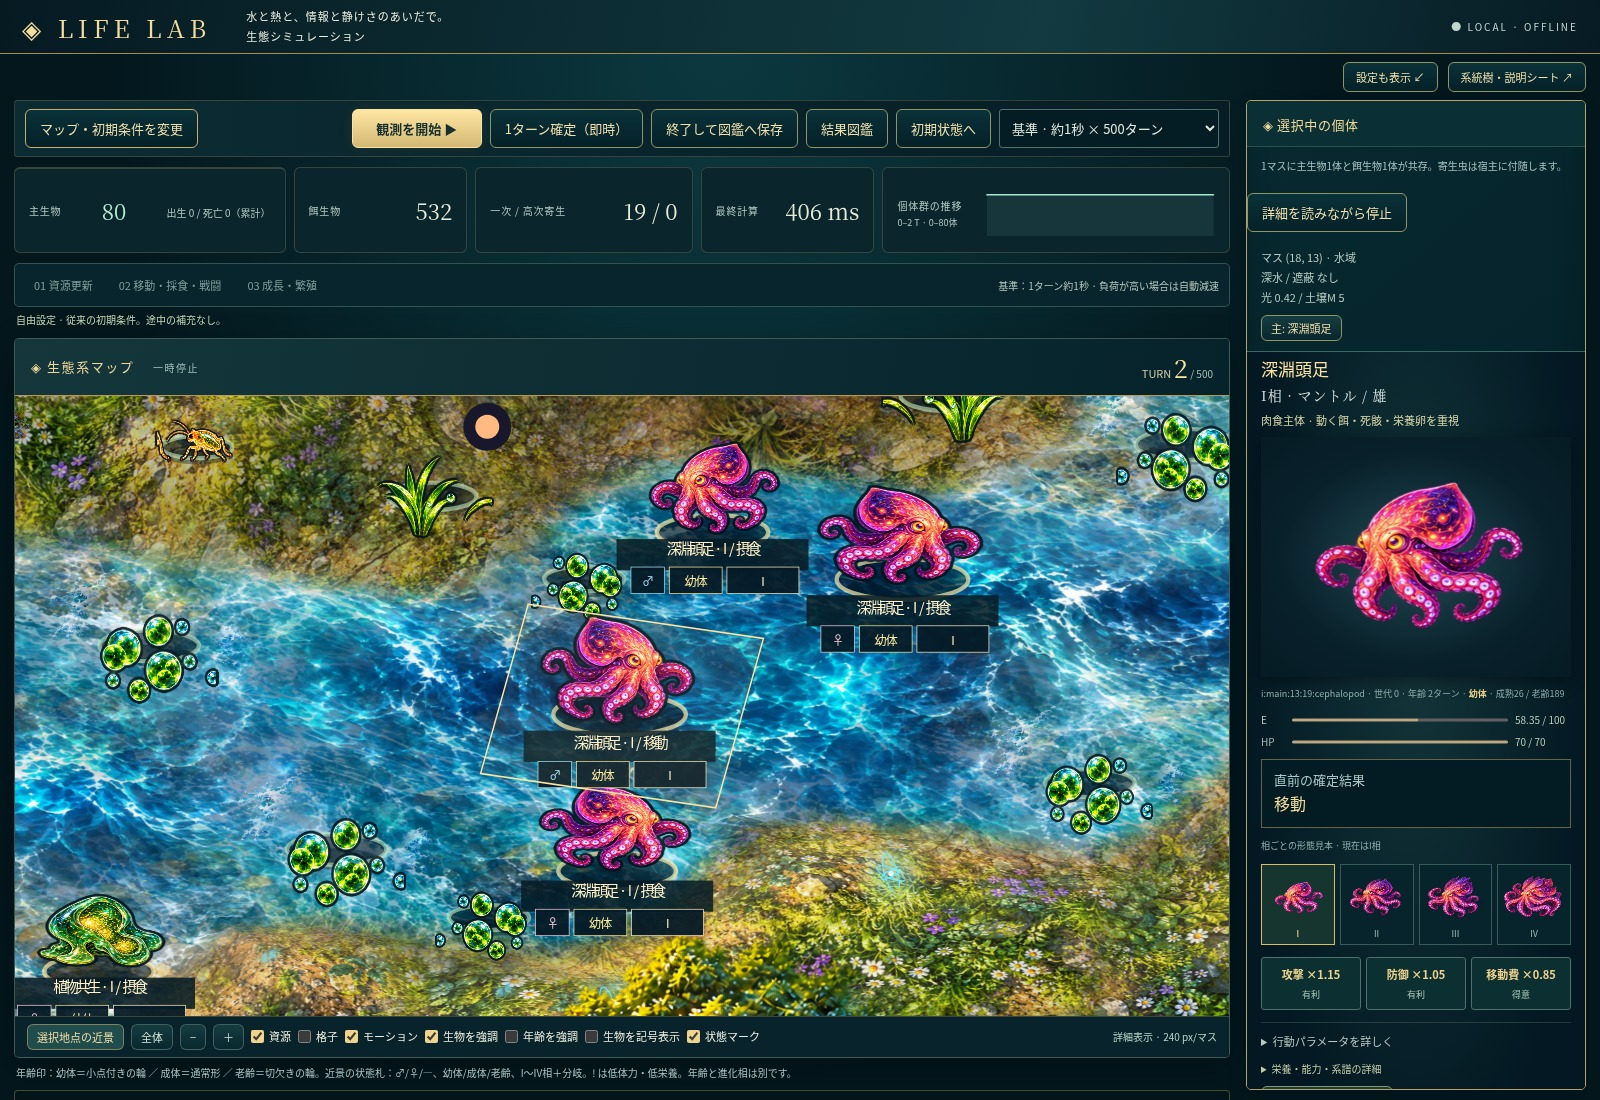
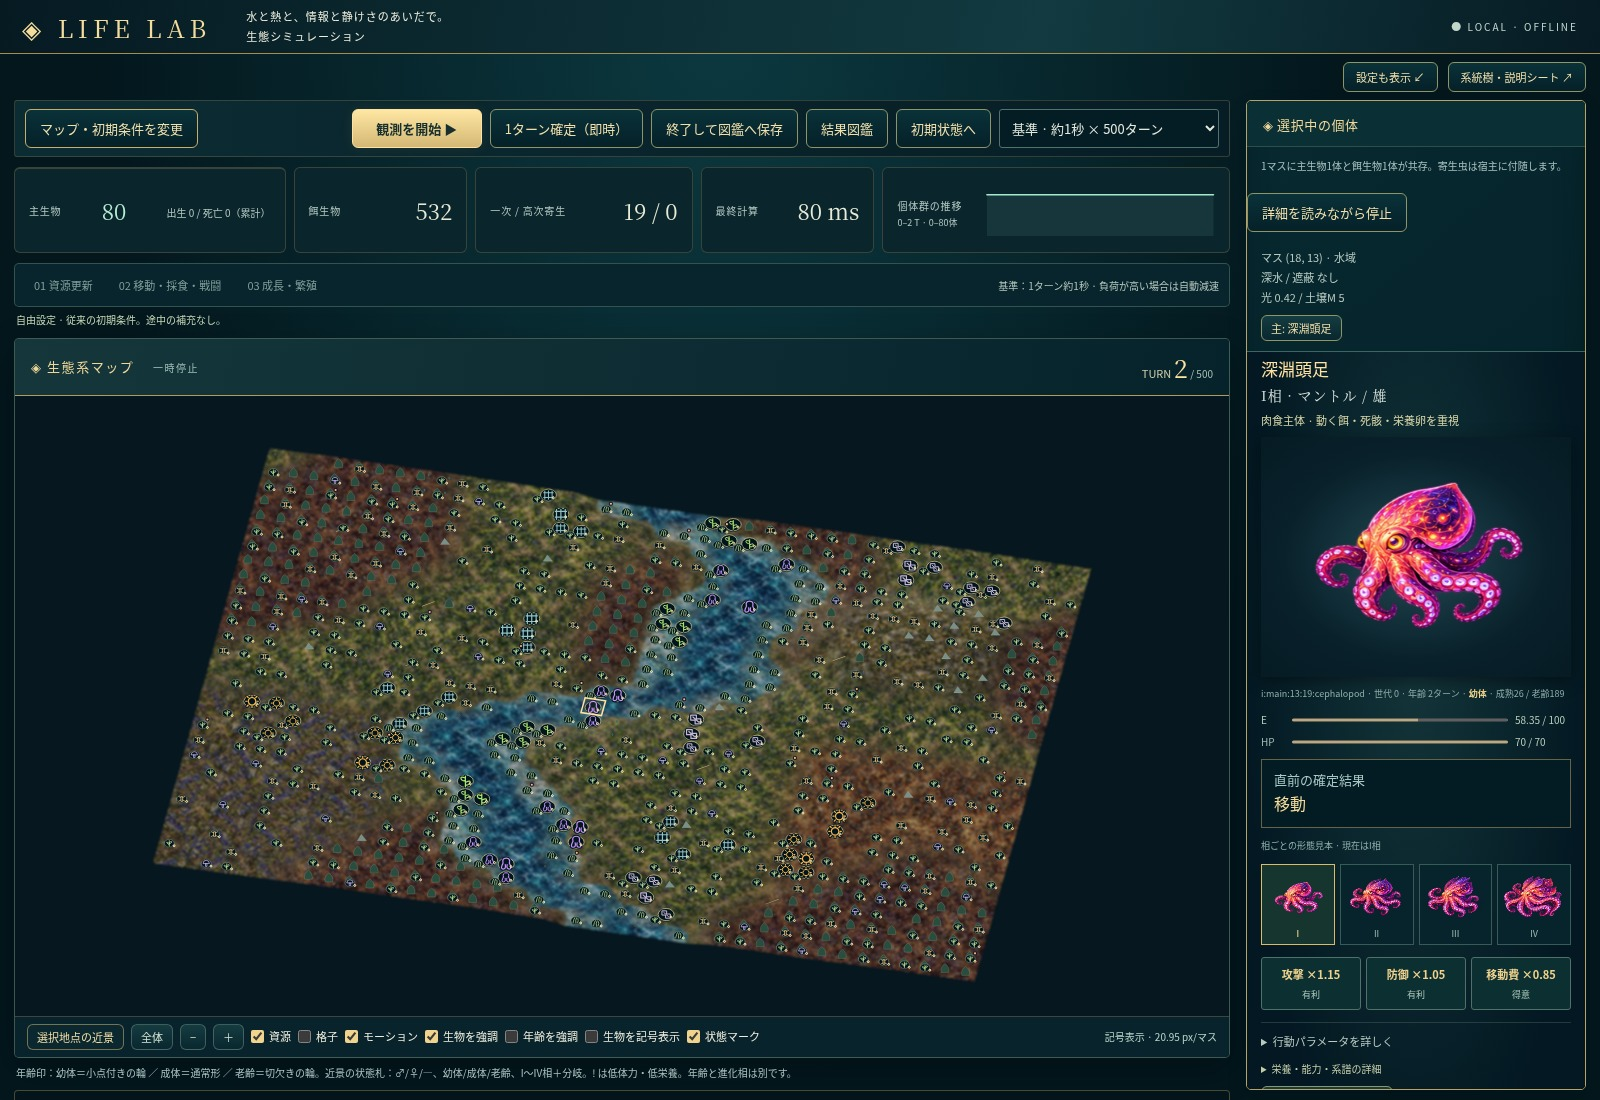
Reuse reserved turns after map interaction and align editor pause checks

diff --git a/lifegame-desktop/src/ecology/compute-client.js b/lifegame-desktop/src/ecology/compute-client.js
@@ -1,8 +1,8 @@
 /* One Worker, at most six private future turns. No future state reaches counters. */
 (function(root){'use strict';
   function create({onChange=()=>{},onError=()=>{},workerFactory=()=>new Worker('ecology/compute-worker.js')}={}){
-    let worker=null,epoch=0,queue=[],busy=false,ready=false,limit=Infinity,preparedAt=0,watchdog=null,metadata=null, warming=true,active=false;
-    function close(dispose=false){epoch++;active=false;if(dispose){worker?.terminate();worker=null;}queue=[];busy=false;ready=false;clearTimeout(watchdog);watchdog=null;}
+    let worker=null,epoch=0,queue=[],busy=false,ready=false,limit=Infinity,preparedAt=0,watchdog=null,metadata=null, warming=true,active=false,reserved=null;
+    function close(dispose=false){epoch++;active=false;if(dispose){worker?.terminate();worker=null;}queue=[];reserved=null;busy=false;ready=false;clearTimeout(watchdog);watchdog=null;}
     function fail(message){close(true);onError(message);}
     function arm(){clearTimeout(watchdog);watchdog=setTimeout(()=>fail('事前計算が60秒以内に応答しませんでした。確定状態から再試行してください。'),warming?Math.max(1,60000-(performance.now()-preparedAt)):60000);}
     function init(world,observeId,end){
@@ -23,11 +23,13 @@
     }
     function fill(count=2){
       if(!ready||busy||!worker||queue.at(-1)?.turn>=limit)return;
-      const amount=Math.min(count,6-queue.length);if(amount<=0)return;
+      const amount=Math.min(count,6-queue.length-(reserved?1:0));if(amount<=0)return;
       busy=true;arm();worker.postMessage({type:'compute',epoch,count:amount,limit});
     }
-    function take(){return queue.shift()||null;}
-    return {init,close,fill,take,get initialized(){return active;},get length(){return queue.length;},get ready(){return ready;},get busy(){return busy;},get elapsed(){return performance.now()-preparedAt;},get metadata(){return metadata;}};
+    function take(){if(reserved)throw Error('TURN_ALREADY_RESERVED');reserved=queue.shift()||null;return reserved;}
+    function restore(packet){if(packet!==reserved)throw Error('TURN_RESERVATION_MISMATCH');queue.unshift(reserved);reserved=null;}
+    function acknowledge(){reserved=null;}
+    return {init,close,fill,take,restore,acknowledge,get initialized(){return active;},get length(){return queue.length;},get ready(){return ready;},get busy(){return busy;},get elapsed(){return performance.now()-preparedAt;},get metadata(){return metadata;}};
   }
   root.EcoCompute={create};
 })(globalThis);

diff --git a/lifegame-desktop/src/app.js b/lifegame-desktop/src/app.js
@@ -85,8 +85,9 @@
   });
   function restoreCommitted() {
     runGeneration++;clearTimeout(timer);timer=null;
-    const had=!!pendingTurn;pendingTurn=null;
-    if(had){compute.close();prewarming=true;}
+    const had=!!pendingTurn;
+    if(pendingTurn?.packet)compute.restore(pendingTurn.packet);
+    pendingTurn=null;
     renderer.view.animate=false;showTurnStage();
     if(world){renderer.setWorld(world);renderSelection();}
   }
@@ -387,7 +388,7 @@
     const packet=compute.take();
     if(!packet){compute.fill(2);$("status").textContent="計算待ち";message("次のターンを計算しています。個体やターンを省略せず待機します。");timer=setTimeout(runLoop,100);return;}
     const token=runGeneration,start=performance.now();
-    const state=pendingTurn={phase:0,computeMs:packet.computeMs,preview:world};
+    const state=pendingTurn={phase:0,computeMs:packet.computeMs,preview:world,packet};
     compute.fill(2);
     function valid(){return running&&!holds.size&&token===runGeneration&&pendingTurn===state;}
     function advance(){
@@ -404,7 +405,7 @@
         $("status").textContent="観測中";
         if(state.phase===3)timer=setTimeout(()=>{
           if(!valid())return;
-          pendingTurn=null;showTurnStage();renderer.view.animate=false;
+          compute.acknowledge();pendingTurn=null;showTurnStage();renderer.view.animate=false;
           commitTurn(preview,packet.computeMs);
           if(running&&!holds.size)timer=setTimeout(runLoop,0);
         },Math.max(100,TURN_MS-(performance.now()-start)));

diff --git a/lifegame-desktop/operations/evidence/fast-observation-v4/README.md b/lifegame-desktop/operations/evidence/fast-observation-v4/README.md
@@ -1,10 +1,10 @@
 # app4.0.0 500ターン・先行計算・操作停止
 
-契約: operations/plans/fast-observation-v4.md。仕様差分: design/specification/observation-session-v2.3.md。A1/A2、B4/B5、C7/C7.1/C8/C8.1/C8.2、D7/D8/D9、E5/E6。配布はC4/D4/E7。実行主体Codex、Linux共有クラウドCPU・Node24・Chromium154/HTTP loopback。UTC 2026-10-18T03:14:25.571430+00:00。正式59ノードのID/親子/草案状態を維持。新規Node/Manifest初期登録なし、既存Manifest反映。中核3定義は変更していない。
+契約: operations/plans/fast-observation-v4.md。仕様差分: design/specification/observation-session-v2.3.md。A1/A2、B4/B5、C7/C7.1/C8/C8.1/C8.2、D7/D8/D9、E5/E6。配布はC4/D4/E7。実行主体Codex、Linux共有クラウドCPU・Node24・Chromium154/HTTP loopback。UTC 2026-10-18T03:21:51.633072+00:00。正式59ノードのID/親子/草案状態を維持。新規Node/Manifest初期登録なし、既存Manifest反映。中核3定義は変更していない。
 
 ## 現行動作
 
-新UI世界は500ターンを一区切り、基準1000ms/ターン、三段階を約333msずつ表示する。先行する3ターンを準備し、以後は最大6ターンの待機バッファ。ローカルWorkerが生態計算を行う。準備は開始から合計60秒で中止・再試行、途中で応答が止まっても60秒で中止する。計算が追いつかなければ待機を明示し減速する。ターン/個体/造形を間引かない。手動送りは同じ同期計算を即時確定する。旧比較用の無指定エンジンは1000区間を保持し、新UIの500はconfig.blockTurnsに保存する。
+新UI世界は500ターンを一区切り、基準1000ms/ターン、三段階を約333msずつ表示する。先行する3ターンを準備し、以後は表示中の予約を含む最大6ターンの先行バッファ。ローカルWorkerが生態計算を行う。準備は開始から合計60秒で中止・再試行、途中で応答が止まっても60秒で中止する。計算が追いつかなければ待機を明示し減速する。ターン/個体/造形を間引かない。手動送りは同じ同期計算を即時確定する。旧比較用の無指定エンジンは1000区間を保持し、新UIの500はconfig.blockTurnsに保存する。
 
 マップ操作は最後から1秒後に再開し、pointer保持中は再開しない。個体選択/詳細ロック、説明、図鑑、設定はそれぞれ閲覧終了/閉じる/適用または取消まで保持。複数理由があればすべて解除するまで停止。手動停止では自動再開を取り消し、ホバーだけでは停止しない。タブ非表示でも停止。途中操作は最後の確定世界へ戻し、再開時の追いつき早送りは行わない。未表示の未来をカウンター・履歴・図鑑へ混ぜない。旧世代メッセージを拒否し、終了/リセット/設定/手動送りで先行結果を無効化する。変更した観測対象の診断は再計算する。
 
@@ -19,13 +19,13 @@
 
 performance.jsonは各500ターン、observe39/0・life/1・既存の固定観察モード、実ブラウザWorkerと差分の復元を通した計測。壁時計には描画・再生の待ちを入れていない。1/50/100/150/200/250/300/400/500時点で占有・収支の不変条件を検査し異常なし。計算コストに最低1秒の再生間隔を加えた概算は河畔約515秒、湖沼500秒。描画や転送/画面操作の負荷を全て含む実ゲーム完走時間ではない。共有CPUでの単発2条件、全端末や大160×112の保証にはしない。
 
-screen-performance.jsonは同じ標準河畔の実画面。遠景/近景を各15確定ターン計測。近景も既存の詳細造形を使う。平均は遠景 1489ms、近景 1488ms、Worker稼働中のホイール操作応答は 51ms。これは短期表示の実測であり、500ターン全画面を実時間再生した検査ではない。
+screen-performance.jsonは同じ標準河畔の実画面。遠景/近景を各15確定ターン計測。近景も既存の詳細造形を使う。平均は遠景 1848ms、近景 1223ms、Worker稼働中のホイール操作応答は 50ms。これは短期表示の実測であり、500ターン全画面を実時間再生した検査ではない。
 
-interaction-ui-report.jsonの小マップは5ターン 5923ms、準備 1249ms。別の段階検査では準備を含む最初の確定まで約2481ms。これらを500倍して全端末の性能保証としない。乱数計算だけの比較はhash-benchmark.json、20,000回で279→124ms。同じ乱数合計とUnicode/大きな入力のSHA一致を確認したがゲーム全体の倍率ではない。
+interaction-ui-report.jsonの小マップは5ターン 5277ms、準備 322ms。別の段階検査では準備を含む最初の確定まで約2304ms。これらを500倍して全端末の性能保証としない。乱数計算だけの比較はhash-benchmark.json、20,000回で279→124ms。同じ乱数合計とUnicode/大きな入力のSHA一致を確認したがゲーム全体の倍率ではない。
 
 ## 検証と限界
 
-unit.logは131項目成功。compute.logはそのうちWorker4の最終再確認と追加client2、合計6項目成功。固有の検査は133項目。同期/実Workerの完全一致、キャッシュ有無、固定された前版指紋、差分復元、500境界と続行、60秒の合計期限、6バッファ上限、古いメッセージ拒否を確認。既存46画面、段階26、操作23が成功。ドラッグ保持、ホイール停止/再開、複数閲覧理由、設定取消、手動停止優先、再設定時の破棄、保存・再生の最終指紋一致、追加記録拒否、狭幅、外部通信/JS例外なしを確認した。
+unit.logは131項目成功。compute.logはそのうちWorker4の最終再確認と追加client2、合計6項目成功。固有の検査は133項目。同期/実Workerの完全一致、キャッシュ有無、固定された前版指紋、差分復元、500境界と続行、60秒の合計期限、6バッファ上限、古いメッセージ拒否を確認。既存46画面、段階26、操作25が成功。ドラッグ保持、ホイール停止/再開、複数閲覧理由、設定取消、手動停止優先、再設定時の破棄、保存・再生の最終指紋一致、追加記録拒否、狭幅、外部通信/JS例外なしを確認した。
 
 [遠景](overview.jpg) / [近景](detail.jpg) は実際の確定2ターン後の画面。既存の原画/背景/rendererを維持。外観の新しい利用者承認を検査成功から推定しない。
 
@@ -34,3 +34,11 @@ unit.logは131項目成功。compute.logはそのうちWorker4の最終再確認
 Windows3.9のafacce577、run39077978463・job117528983509はZIP/実exe10ターン/画像読込/Node非公開の成功を受領（windows3.9.json）。4.0のWindows実exeはCI待ち。今版は実exeのfile起動でWorker再生が1ターン以上進むことも必須にした。Linux環境にはElectron実体とXvfbがなく、ネイティブ起動は未実施。HTTPブラウザの成功をfile起動の証拠へ代用しない。
 
 source-hashes.jsonが対象の実装・検査・依存・仕様・契約・CIを特定する。実装/入力/依存/期待値/環境が変わった場合、該当証跡を再検証する。過去の長期目標やWindows成功を4.0へ一括流用しない。
+
+## 操作再開とCI互換検査の修正
+
+表示中の準備済みターンを予約し、操作停止では先頭へ戻して再利用する。予約を含め上限6。設定/観測対象変更と手動停止は無効化する。これにより単なるズーム/ドラッグのたびに初回準備を繰り返さない。compute.logで上限と再利用、interaction-ui-report.jsonの25項目で再開・結果一致を確認。
+
+Windowsの最初のCI（e501fb5、run39092996636）は、旧usability検査が設定編集中のrunning=falseを期待して失敗した。新仕様は再開意図を保持して停止するため、実際の停止理由と1ターン以上の生態指紋不変を確認する検査へ更新した。usability-report.jsonの20項目がLinuxで成功、画素の一致と停止中の再描画省略も保持。最初の試行では配布exe検査まで進んでおらず、成功としない（windows-first-attempt.json）。再実行を待つ。
+
+標準マップの描画実測には他のブラウザ検査とのCPU競合が含まれ、今回の遠景平均は約1.85秒、近景平均は約1.22秒。負荷次第で500ターンの進行が15分を超える場合がある。小マップは約1.06秒で、5〜15分の観察には小マップを推奨する。表示品質や個体を削って速度を合わせる変更は行っていない。

diff --git a/lifegame-desktop/operations/plans/fast-observation-v4.md b/lifegame-desktop/operations/plans/fast-observation-v4.md
@@ -13,3 +13,5 @@
 マップpointer操作/ホイール/キー/表示操作中は再生停止、最後の操作から1秒後に再開。pointer保持中は再開しない。個体詳細は明示的な閲覧ロック、図鑑/説明は閉じるまで保持、設定は適用/取消まで保持。手動停止は自動再開権を取り消す。ホバーのみは止めない。タブ非表示中も止める。再開時の追いつき早送りなし。リセット/再読込み/手動1ターン/終了/選択診断変更は旧世代メッセージと先行バッファを無効化する。実際の停止理由を表示する。
 
 検証: 生態の独立固定指紋、原画/背景ハッシュ不変、同期とWorker/差分一致、不変条件、初期準備上限/先行上限、500境界/続行、操作中ターン固定/閉じて再開/手動停止優先、古い結果拒否、実画面の遠近、計測した処理速度と入力応答。5〜15分は実測範囲を明示し全端末の保証としない。生態バランス目標率は今回の性能検査だけで認定しない。Windows実exeは対象SHAのCI後にだけ判定。
+
+操作再開の補足: マップ操作と閲覧だけでは、表示中の準備済みターンを先行列の先頭へ戻して再利用する。表示中の予約も含めて先行上限6を守る。手動停止・再設定・観測対象変更では無効化する。再開のたびに初回準備をやり直さない。

diff --git a/lifegame-desktop/valis/nodes/D/D9.md b/lifegame-desktop/valis/nodes/D/D9.md
@@ -50,7 +50,7 @@
     "tests/fast-observation-ui.cjs",
     "tests/compute-client.test.cjs"
   ],
-  "implementation_status": "既存46・段階26・操作23と標準遠近の実再生。端末別性能と外観承認は未確定。",
+  "implementation_status": "既存46・段階26・操作25と標準遠近の実再生。端末別性能と外観承認は未確定。",
   "trial_version": "foundation/v2（製品未採用）"
 }
 ---
@@ -90,4 +90,4 @@ D9:（C8, C8.1, C8.2 / 観測画面・系統樹・説明と描画）［草案］
 	operations/plans/fast-observation-v4.mdを今回の適用範囲として優先。今回の実測と制約はE5/E6を参照。正式状態は草案。
 
 現行4.0:
-	既存46・段階26・操作23と標準遠近の実再生。端末別性能と外観承認は未確定。 対象条件・制約はoperations/evidence/fast-observation-v4/README.md。正式状態は草案。
+	既存46・段階26・操作25と標準遠近の実再生。端末別性能と外観承認は未確定。 対象条件・制約はoperations/evidence/fast-observation-v4/README.md。正式状態は草案。

diff --git a/lifegame-desktop/design/specification/observation-session-v2.3.md b/lifegame-desktop/design/specification/observation-session-v2.3.md
@@ -15,3 +15,5 @@
 再設定/リセット/手動送り/終了/観測対象変更は古い先行結果を無効化する。途中表示で操作した場合は最後の確定状態へ戻る。生態そのものを操作・壁時計で書き換えない。未完のターンを保存しない。再生結果を追加記録しない。設定編集の失敗で現在の世界を失わない。旧計算版の記録は版不一致として拒否し、削除しない。
 
 適用先: A1/A2、B4/B5、C7/C7.1/C8/C8.1/C8.2。検証: D7/D8/D9、配布D4/C4、実測E5/E6/E7。契約はoperations/plans/fast-observation-v4.md。実装とUI成功は生態バランス完成・造形の再承認を意味しない。
+
+操作再開の補足: マップ操作と閲覧だけでは、表示中の準備済みターンを先行列の先頭へ戻して再利用する。表示中の予約も含めて先行上限6を守る。手動停止・再設定・観測対象変更では無効化する。再開のたびに初回準備をやり直さない。

diff --git a/lifegame-desktop/valis/nodes/E/E6.md b/lifegame-desktop/valis/nodes/E/E6.md
@@ -26,13 +26,13 @@
     "operations/evidence/fast-observation-v4/source-hashes.json"
   ],
   "version": "app4.0.0",
-  "result": "4.0既存46・段階26・操作23と標準遠近の速度。原画保持、全端末/外観の承認なし。"
+  "result": "4.0既存46・段階26・操作25と標準遠近の速度。原画保持、全端末/外観の承認なし。"
 }
 ---
 E6:（D9 / 現行観測画面のLinux実測証跡）［草案］
 
 現在対象:
-	4.0既存46・段階26・操作23と標準遠近の速度。原画保持、全端末/外観の承認なし。
+	4.0既存46・段階26・操作25と標準遠近の速度。原画保持、全端末/外観の承認なし。
 
 実態と有効範囲:
 	logsとoperations/evidence/fast-observation-v4/README.mdの対象条件に限定。Linux4.0とWindows3.9を区別し、過去記録を今回の再検証へ代用しない。
